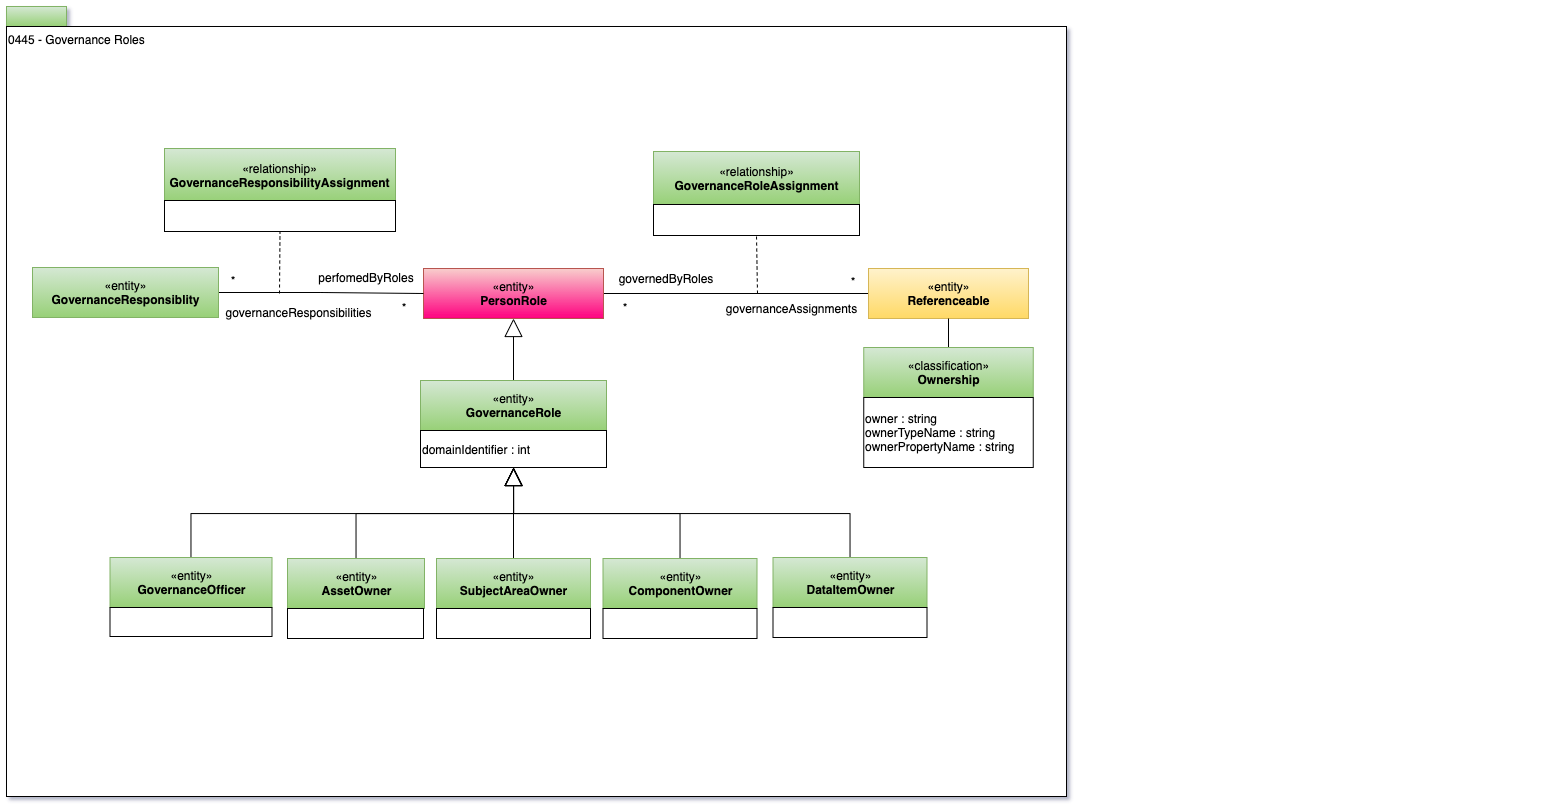
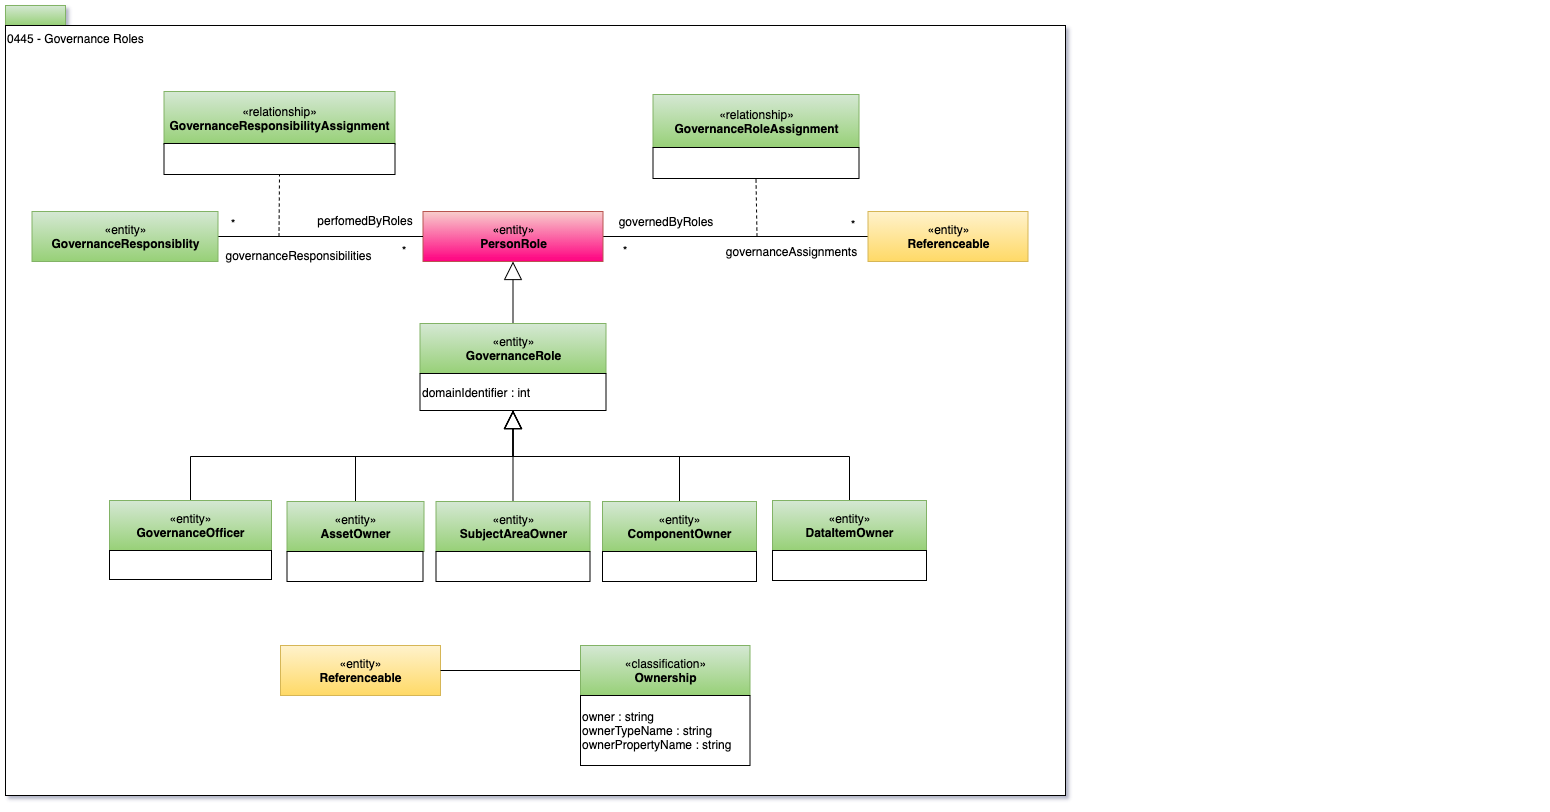
Updates to release notes for 2.10

Changed region(s): [[0.0, 0.0924, 0.6813, 0.9236], [0.0, 0.0, 0.0929, 0.0616], [0.0, 0.9544, 0.031, 0.9852]]

diff --git a/release-notes/release-notes-2-10.md b/release-notes/release-notes-2-10.md
@@ -1,10 +1,11 @@
 <!-- SPDX-License-Identifier: CC-BY-4.0 -->
 <!-- Copyright Contributors to the ODPi Egeria project. -->
 
-# Release 2.9 (May 2021)
+# Release 2.10 (June 2021)
 
 Release 2.10 adds:
-* ???????
+* New and improved open metadata types for governance
+* New API for Governance Program OMAS
 
 Details of these and other changes are in the sections that follow.
 
@@ -12,9 +13,126 @@ Details of these and other changes are in the sections that follow.
 
 ### Metadata Types
 
+* Correction to the **Campaign** classification.
+
+  The Campaign classification is supposed to connect to a **Project** entity to indicate the project
+  is a grouping of a series of projects designed to achieve a large goal.  Unfortunately it was coded to connect to
+  the **Collection** entity.  In 2.10, the Campaign classification has been changed to attach to **Referenceable**
+  to allow it to be connected to **Project** without affecting backward compatibility.
+  
+  See new type description in model [0130](../open-metadata-publication/website/open-metadata-types/0130-Projects.md).
+  
+* Extension of the **UsedInContext** relationship.
+
+  The UsedInContext relationship linked two **GlossaryTerm** entities together to show that one glossary term described
+  the context in which the other was valid.  This relationship has been updated to allow the end that describes
+  the context to be a **Referenceable**.  This means that the context where glossary terms are valid can be expressed
+  as elements such as projects, business capabilities, parts of an organization, subject areas, zones and many more.
+
+  See new type description in model [0360](../open-metadata-publication/website/open-metadata-types/0360-Contexts.md).
+  
+* Allowing ownership to be expressed as a **PersonRole**.
+
+  Issue [#5104](https://github.com/odpi/egeria/issues/5104) described the problem that the
+  governance open metadata types allowed owners to be expressed as **PersonalProfile** or **UserIdentity**
+  entities.
+  The properties did not identify if the owner was identified as a GUID or as a qualifiedName.
+  In 2.10, a new classification for expressing ownership called, not surprisingly, **Ownership**,
+  was introduced which allows and type and property name for the owner to be specified with the
+  owner's identifier.  The types for entities such as **GovernanceActionType** and **IncidentReport** that include
+  ownership properties in them have been updated to deprecate these properties in favor of using
+  the Ownership classification.  The **AssetOwnership** classification is also deprecated.
+
+  See new type description in model [0445](../open-metadata-publication/website/open-metadata-types/0445-Governance-Roles.md).
+
+* Update to **Certification** relationship.
+
+  The Certification relationship supports the identification of the people involved in the certification of an element.  2.10 adds
+  new attributes to specify the type and property names of the identifier used to identify these people.
+  This is consistent with the new **Ownership** classification.
+  
+  See new type descriptions in model [0440](../open-metadata-publication/website/open-metadata-types/0440-Organizational-Controls.md).
+
+* Update to **License** relationship.
+
+  The License relationship supports the identification of the people involved in the licencing of an element.  2.10 adds
+  new attributes to specify the type and property names of the identifier used to identify these people.
+  This is consistent with the new **Ownership** classification.
+  
+  See new type descriptions in model [0440](../open-metadata-publication/website/open-metadata-types/0440-Organizational-Controls.md).
+
+* Governance role updates.
+
+  The **GovernanceOfficer** entity now inherits from **GovernanceRole** rather than **PersonRole**.
+  This means it is just another governance role that can be linked with **GovernanceResponsibility**
+  definitions.  In addition there are new types for different types of owners.  These are **ComponentOwner**
+  and **DataItemOwner**.
+
+  See new type descriptions in model [0445](../open-metadata-publication/website/open-metadata-types/0445-Governance-Roles.md).
+  
+* Extend the **GovernanceResponsibilityAssignment**
+
+  The GovernanceResponsibilityAssignment relationship identifies the responsibilities for a particular role.
+  It used to link to a **GovernanceRole** and in 2.10, it has been updated to link to a **PersonRole**.  This means
+  that governance responsibilities can be added to any role, such as **ProjectManager** and **CommunityMember**,
+  rather than just specialized governance roles.
+  
+  See new type descriptions in model [0445](../open-metadata-publication/website/open-metadata-types/0445-Governance-Roles.md).
+
+* Deprecating the **domain** attribute in various governance types.
+
+  The domain attribute is typed by the **GovernanceDomain** enum.  This provides a fixed list of governance domains.
+  An extensible mechanism for expressing the governance domain was added in release 2.4 using the
+  **GovernanceDomainDescription** entity and the **domainIdentifier** attribute.
+  In this release, the use of **domain** is deprecated in **GovernanceDefinition**,
+  **GovernanceZone**, **SubjectAreaDefinition**, **GovernanceMetric**, **GovernanceRole** and **GovernanceOfficer**.
+  
+  See new type descriptions in model [0401](../open-metadata-publication/website/open-metadata-types/0401-Governance-Definitions.md).
+
+* Extensions to governance drivers.
+
+  There are now new subtypes of the **GovernanceDriver** entity called **RegulationArticle** and
+  **BusinessImperative**.  It is also possible to link governance drivers using the new
+  **GovernanceDriverLink** relationship.
+  
+  See new type descriptions in model [0405](../open-metadata-publication/website/open-metadata-types/0405-Governance-Drivers.md).
+
+* Update to **AssetOrigin** classification.
+
+  The AssetOrigin classification supports the identification of the origin of an asset.  This can be in terms of the
+  organization, business capability and other values.  2.10 adds new attributes to identify if the
+  organization or business capability is identified by its GUID or qualifiedName.
+  
+  See new type descriptions in model [0440](../open-metadata-publication/website/open-metadata-types/0440-Organizational-Controls.md).
+
+* Improve IncidentClassifiers.
+
+  If is possible to define multiple sets of **IncidentClassifier** values that can be
+  used on **IncidentReport** entities to help to group and prioritize them.  The IncidentClassifier entity
+  now inherits from **Referencable** and there is a new classification called **IncidentClassifierSet**
+  to mark a **Collection** entity as containing IncidentClassifier definitions.
+
+  See new type descriptions in model [0470](../open-metadata-publication/website/open-metadata-types/0470-Incident-Reporting.md).
+  
+* Deprecation of **ResponsibilityStaffContact**.
+
+  The ResponsibilityStaffContact relationship has been deprecated in favor of the
+  **GovernanceResponsibilityAssignment** relationship.
+
+### New Services for Governance Program OMAS
+
+The APIs defined for Governance Program OMAS have been updated to reflect the changes
+to the open metadata types described above.  The APIs and client implementations
+are in place.  The server-side is coming in a future release.
 
 ### Bug fixes and other updates
+
 * Additional Bug Fixes
+
+  * Cascaded deletes for entities grouped using the **Anchors** classification
+    are now deleting the correct entities.  Prior to this release, some entities were
+    missed and others were deleted incorrectly.
+    
 * Dependency Updates
 
 For details on both see the commit history in GitHub.

diff --git a/release-notes/release-notes-2-11.md b/release-notes/release-notes-2-11.md
@@ -1,0 +1,44 @@
+<!-- SPDX-License-Identifier: CC-BY-4.0 -->
+<!-- Copyright Contributors to the ODPi Egeria project. -->
+
+# Release 2.11 (July 2021)
+
+Release 2.11 adds:
+* ???????
+
+Details of these and other changes are in the sections that follow.
+
+## Description of Changes
+
+### Metadata Types
+
+
+### Bug fixes and other updates
+* Additional Bug Fixes
+* Dependency Updates
+
+For details on both see the commit history in GitHub.
+
+## Known Issues
+
+* It is recommended to use a chromium-based browser such as Google Chrome or Microsoft Edge, or Apple Safari for the Egeria React UI. Some parts of the UI experience such as Dino currently experience problems with Firefox. See [odpi/egeria-react-ui#96](https://github.com/odpi/egeria-react-ui/issues/96) .
+* When running the 'Understanding Platform Services' lab, ensure you run the 'egeria-service-config' notebook first and do not restart the python kernel before running this lab. See [#4842](https://github.com/odpi/egeria/issues/4842) .
+
+# Egeria Implementation Status at Release 2.11
+
+![Egeria Implementation Status](../open-metadata-publication/website/roadmap/functional-organization-showing-implementation-status-for-2.11.png#pagewidth)
+
+Link to Egeria's [Roadmap](../open-metadata-publication/website/roadmap) for more details about the
+Open Metadata and Governance vision, strategy and content.
+
+
+# Further Help and Support
+
+See the [Community Guide](../Community-Guide.md).
+
+----
+* Return to [Release Notes](.)
+   
+----
+License: [CC BY 4.0](https://creativecommons.org/licenses/by/4.0/),
+Copyright Contributors to the ODPi Egeria project.

diff --git a/release-notes/README.md b/release-notes/README.md
@@ -24,6 +24,22 @@ and bad.  We would love to hear from you.
 
 Below are the release notes for the latest Egeria release:
 
+* [Release 2.10](release-notes-2-10.md) - June 2021
+  * Changes to metadata types
+  * Updates to Governance Program OMAS API
+  * Bug Fixes
+  * Dependency updates
+  * Important notes included on known issues
+  
+## Older Releases
+
+* [Release 2.9](release-notes-2-9.md) - May 2021
+  * Updates to open metadata types
+  * Changes to building Egeria on Windows
+  * Bug Fixes
+  * Dependency updates
+  * Important notes included on known issues
+
 * [Release 2.8](release-notes-2-8.md) - April 2021
   * New support for event and property filtering for the open metadata server security connector
   * Changes to metadata types
@@ -33,8 +49,6 @@ Below are the release notes for the latest Egeria release:
   * Bug Fixes
   * Dependency updates
   * Important notes included on known issues
-  
-## Older Releases
 
 * [Release 2.7](release-notes-2-7.md) - March 2021
   * Bug Fixes
